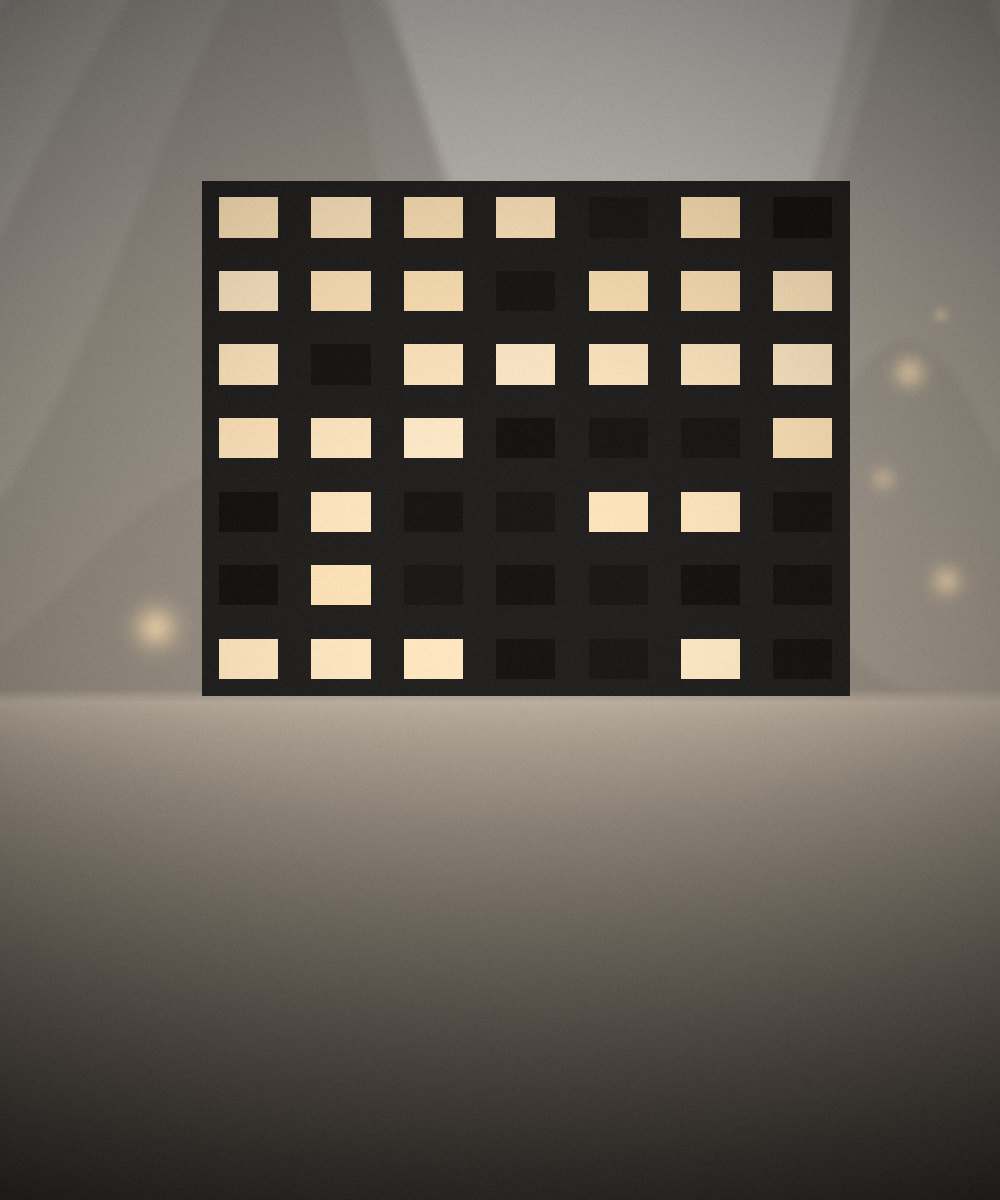
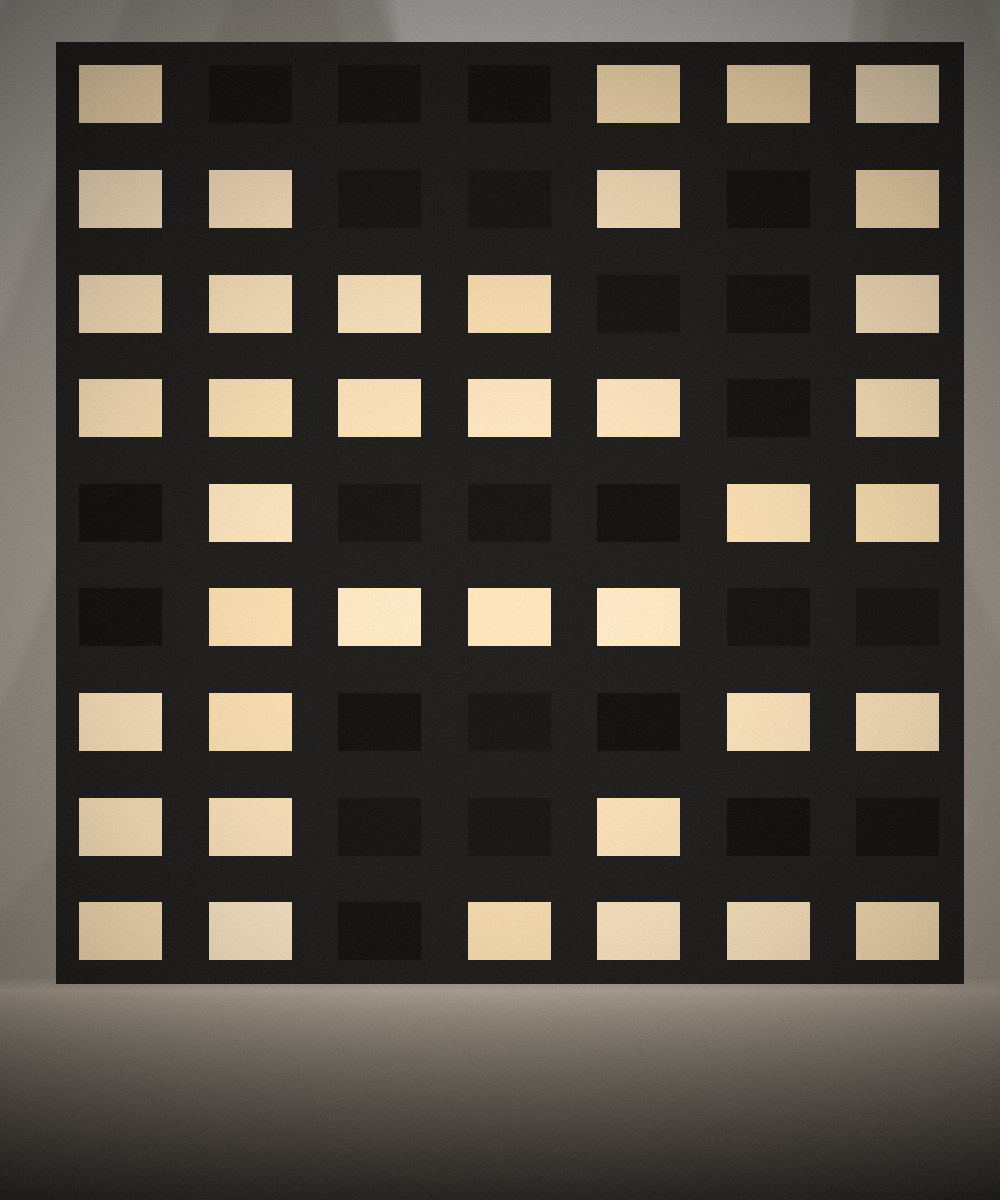
Fix mobile navigation and responsive image composition
The nav had no way to reach Propiedades/Estudio/Proceso/Contacto below
the sm breakpoint - links just disappeared with nothing replacing them.
Add a real hamburger menu with a full-screen slide-in panel.

Also fix property card price/area being hover-only, which touch
devices can't reliably trigger - now visible by default below sm and
hover-revealed above it.

Regenerate the property photography with the building facade sized to
fill nearly the full frame (was ~44% of image height) so object-cover
crops read as an intentional composition at every breakpoint - mobile
portrait cards, tablet 2-up, and desktop bento grid - instead of a
static image with dead space stretched into whatever shape the grid
happens to produce.

Claude-Session: https://claude.ai/code/session_0177wUsGstbEFM2S6gPMDpYG

diff --git a/src/components/Nav.tsx b/src/components/Nav.tsx
@@ -1,6 +1,7 @@
 "use client";
 
-import { motion } from "motion/react";
+import { useEffect, useState } from "react";
+import { AnimatePresence, motion } from "motion/react";
 import MagneticButton from "@/components/MagneticButton";
 
 const links = [
@@ -11,35 +12,99 @@ const links = [
 ];
 
 export default function Nav() {
+  const [open, setOpen] = useState(false);
+
+  useEffect(() => {
+    document.documentElement.classList.toggle("menu-open", open);
+    return () => document.documentElement.classList.remove("menu-open");
+  }, [open]);
+
   return (
-    <motion.header
-      initial={{ y: -40, opacity: 0 }}
-      animate={{ y: 0, opacity: 1 }}
-      transition={{ duration: 0.8, ease: [0.16, 1, 0.3, 1] }}
-      className="fixed inset-x-0 top-0 z-50 flex items-center justify-between border-b border-white/10 bg-[var(--foreground)]/75 px-6 py-5 backdrop-blur-md sm:px-10"
-    >
-      <span className="font-serif text-lg tracking-[0.2em] text-white uppercase">
-        Siteryo
-      </span>
-      <nav className="hidden gap-10 text-sm tracking-wide text-white/75 sm:flex">
-        {links.map((link) => (
-          <a
-            key={link.label}
-            href={link.href}
-            className="group relative py-1 transition-colors hover:text-white"
-          >
-            {link.label}
-            <span className="absolute bottom-0 left-0 h-px w-0 bg-[var(--accent)] transition-all duration-300 group-hover:w-full" />
-          </a>
-        ))}
-      </nav>
-      <MagneticButton
-        href="#contacto"
-        strength={0.5}
-        className="rounded-full border border-white/25 px-5 py-2 text-sm tracking-wide text-white transition-colors hover:border-[var(--accent)] hover:text-[var(--accent)]"
+    <>
+      <motion.header
+        initial={{ y: -40, opacity: 0 }}
+        animate={{ y: 0, opacity: 1 }}
+        transition={{ duration: 0.8, ease: [0.16, 1, 0.3, 1] }}
+        className="fixed inset-x-0 top-0 z-50 flex items-center justify-between border-b border-white/10 bg-[var(--foreground)]/75 px-6 py-5 backdrop-blur-md sm:px-10"
       >
-        Agendar visita
-      </MagneticButton>
-    </motion.header>
+        <span className="font-serif text-lg tracking-[0.2em] text-white uppercase">
+          Siteryo
+        </span>
+        <nav className="hidden gap-10 text-sm tracking-wide text-white/75 sm:flex">
+          {links.map((link) => (
+            <a
+              key={link.label}
+              href={link.href}
+              className="group relative py-1 transition-colors hover:text-white"
+            >
+              {link.label}
+              <span className="absolute bottom-0 left-0 h-px w-0 bg-[var(--accent)] transition-all duration-300 group-hover:w-full" />
+            </a>
+          ))}
+        </nav>
+        <MagneticButton
+          href="#contacto"
+          strength={0.5}
+          className="hidden rounded-full border border-white/25 px-5 py-2 text-sm tracking-wide text-white transition-colors hover:border-[var(--accent)] hover:text-[var(--accent)] sm:inline-block"
+        >
+          Agendar visita
+        </MagneticButton>
+
+        <button
+          type="button"
+          onClick={() => setOpen((v) => !v)}
+          aria-label={open ? "Cerrar menú" : "Abrir menú"}
+          aria-expanded={open}
+          className="relative flex h-8 w-8 flex-col items-center justify-center gap-1.5 sm:hidden"
+        >
+          <span
+            className={`h-px w-5 bg-white transition-transform duration-300 ${
+              open ? "translate-y-[3.5px] rotate-45" : ""
+            }`}
+          />
+          <span
+            className={`h-px w-5 bg-white transition-transform duration-300 ${
+              open ? "-translate-y-[3.5px] -rotate-45" : ""
+            }`}
+          />
+        </button>
+      </motion.header>
+
+      <AnimatePresence>
+        {open && (
+          <motion.div
+            initial={{ opacity: 0 }}
+            animate={{ opacity: 1 }}
+            exit={{ opacity: 0 }}
+            transition={{ duration: 0.3 }}
+            className="fixed inset-0 z-40 flex flex-col justify-center gap-8 bg-[var(--foreground)] px-8 sm:hidden"
+          >
+            {links.map((link, i) => (
+              <motion.a
+                key={link.label}
+                href={link.href}
+                onClick={() => setOpen(false)}
+                initial={{ y: 24, opacity: 0 }}
+                animate={{ y: 0, opacity: 1 }}
+                transition={{ duration: 0.5, delay: 0.08 * i, ease: [0.16, 1, 0.3, 1] }}
+                className="font-serif text-4xl text-white"
+              >
+                {link.label}
+              </motion.a>
+            ))}
+            <motion.a
+              href="#contacto"
+              onClick={() => setOpen(false)}
+              initial={{ y: 24, opacity: 0 }}
+              animate={{ y: 0, opacity: 1 }}
+              transition={{ duration: 0.5, delay: 0.08 * links.length, ease: [0.16, 1, 0.3, 1] }}
+              className="mt-4 w-fit rounded-full border border-white/25 px-6 py-3 text-sm tracking-wide text-white"
+            >
+              Agendar visita
+            </motion.a>
+          </motion.div>
+        )}
+      </AnimatePresence>
+    </>
   );
 }

diff --git a/src/components/PropertyCard.tsx b/src/components/PropertyCard.tsx
@@ -50,7 +50,7 @@ export default function PropertyCard({ property }: { property: Property }) {
           <p className="font-serif text-lg">{property.name}</p>
           <p className="text-xs tracking-wide text-white/70">{property.location}</p>
         </div>
-        <div className="text-right text-xs tracking-wide text-white/80 opacity-0 transition-opacity duration-500 group-hover:opacity-100">
+        <div className="text-right text-xs tracking-wide text-white/80 opacity-100 transition-opacity duration-500 sm:opacity-0 sm:group-hover:opacity-100">
           <p>{property.price}</p>
           <p>{property.area}</p>
         </div>

diff --git a/src/app/globals.css b/src/app/globals.css
@@ -41,7 +41,9 @@ html.lenis body {
 }
 
 html.preloading,
-html.preloading body {
+html.preloading body,
+html.menu-open,
+html.menu-open body {
   overflow: hidden;
   height: 100%;
 }
